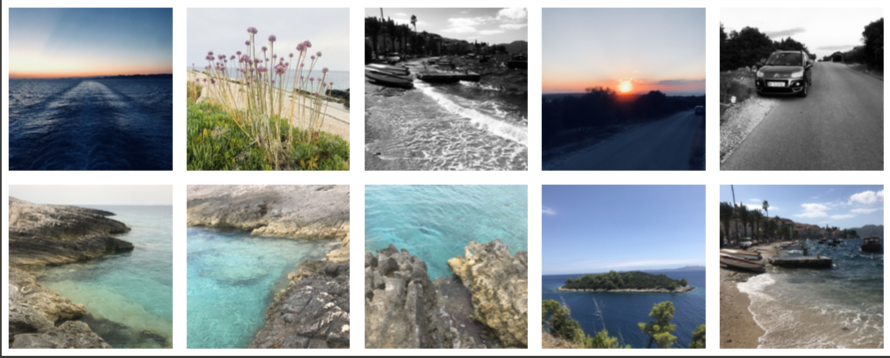
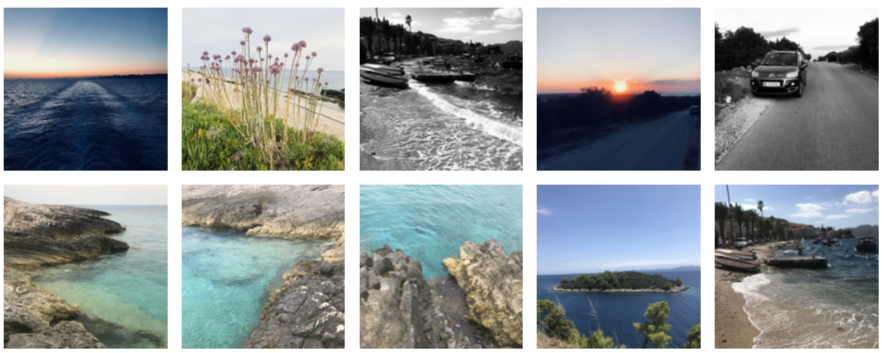
Update README.md

Changed region(s): [[0.0, 0.0, 1.0, 1.0], [0.7932, 0.0623, 0.8542, 0.1246]]

diff --git a/pkg/api/process_test.go b/pkg/api/process_test.go
@@ -188,6 +188,73 @@ func TestReadSeekerAndWriter(t *testing.T) {
 
 }
 
+func TestTrimUsingReadSeekerCloser(t *testing.T) {
+
+	config := pdf.NewDefaultConfiguration()
+	fileIn := filepath.Join(inDir, "pike-stanford.pdf")
+	fileOut := filepath.Join(outDir, "test.pdf")
+	pageSelection := []string{"-2"}
+
+	f, err := os.Open(fileIn)
+	if err != nil {
+		t.Fatalf("TestTrimUsingReadSeekerCloser Open:  %v\n", err)
+	}
+
+	defer func() {
+		f.Close()
+	}()
+
+	ctx, err := ReadContext(f, "", 0, config)
+	if err != nil {
+		t.Fatalf("TestTrimUsingReadSeekerCloser Read:  %v\n", err)
+	}
+
+	err = ValidateContext(ctx)
+	if err != nil {
+		t.Fatalf("TestTrimUsingReadSeekerCloser Validate:  %v\n", err)
+	}
+
+	err = OptimizeContext(ctx)
+	if err != nil {
+		t.Fatalf("TestTrimUsingReadSeekerCloser Optimize:  %v\n", err)
+	}
+
+	w, err := os.Create(fileOut)
+	if err != nil {
+		t.Fatalf("TestTrimUsingReadSeekerCloser Create:  %v\n", err)
+
+	}
+
+	defer func() {
+
+		// The underlying bufio.Writer has already been flushed.
+
+		// Processing error takes precedence.
+		if err != nil {
+			w.Close()
+			return
+		}
+
+		// Do not miss out on closing errors.
+		err = w.Close()
+
+	}()
+
+	ctx.Write.Command = "Trim"
+
+	pages, err := pagesForPageSelection(ctx.PageCount, pageSelection)
+	if err != nil {
+		t.Fatalf("TestTrimUsingReadSeekerCloser pageSelection:  %v\n", err)
+	}
+	ctx.Write.SelectedPages = pages
+
+	err = WriteContext(ctx, w)
+	if err != nil {
+		t.Fatalf("TestTrimUsingReadSeekerCloser Write:  %v\n", err)
+	}
+
+}
+
 func TestMergeUsingReadSeekerCloser(t *testing.T) {
 
 	rr := []pdf.ReadSeekerCloser{}

diff --git a/pkg/pdfcpu/doc.go b/pkg/pdfcpu/doc.go
@@ -14,8 +14,8 @@ The available commands are:
 	stamp		add text or image stamp to selected pages
 	watermark	add text or image watermark for selected pages
 	import		import/convert images
-	nup         rearrange pages/images into grid page layout for reduced number of pages
-    grid        rearrange pages/images into grid page layout for enhanced browsing experience
+	nup			rearrange pages/images for reduced number of pages
+	grid		rearrange pages/images for enhanced browsing experience
 	rotate		rotate pages
 	attach		list, add, remove, extract embedded file attachments
 	perm		list, add user access permissions

diff --git a/README.md b/README.md
@@ -8,16 +8,62 @@
 
 ![logo](resources/pdfchip3.png)
 
-Package `pdfcpu` is a simple PDF processing library written in [Go](http://golang.org) supporting encryption.
-It provides both an API and a CLI. Supported are all versions up to PDF 1.7 (ISO-32000). The current command set includes *validate*, *optimize*, *split*, *merge*, *extract*, *trim*, *stamp*, *watermark*, *import*, *nup*, *grid*, *rotate*, *attach*, *perm*, *encrypt*, *decrypt*, *changeupw*, *changeopw* and the list keeps growing.
-
-Documentation is live at [pdfcpu.io](https://pdfcpu.io). If you go there you will also find examples for every command.
+pdfcpu is a simple PDF processing library written in [Go](http://golang.org) supporting encryption.
+It provides both an API and a CLI. Supported are all versions up to PDF 1.7 (ISO-32000).
 
 ## Motivation
 
-Document interchange is essential in the world we live in. PDF is everywhere and it is not going away anytime soon.<br>
-This is an effort to build a PDF processing library from the ground up written in Go with strong support for batch processing via a rich command line. Over time `pdfcpu` aims to support the standard range of PDF processing features and also any interesting use cases that may present themselves along the way.
+This is an effort to build a comprehensive PDF processing library from the ground up written in Go. Over time pdfcpu aims to support the standard range of PDF processing features and also any interesting use cases that may present themselves along the way.
 
+<p align="center">
+  <kbd><img src="resources/gridpdf.png" height="150"></kbd>&nbsp;
+  <kbd><img src="resources/wmi1abs.png" height="150"></kbd>&nbsp;
+  <kbd><img src="resources/nup9pdf.png" height="150"></kbd>&nbsp;
+  <kbd><img src="resources/wmText2Sample.png" height="150"></kbd><br><br>
+  <kbd><img src="resources/stt31.png" height="150"></kbd>&nbsp;
+  <kbd><img src="resources/nup4pdf.png" height="150"></kbd>&nbsp;
+  <kbd><img src="resources/wmi4.png" height="150"></kbd>&nbsp;
+  <kbd><img src="resources/sti.png" height="150"></kbd><br><br>
+  <kbd><img src="resources/stp.png" height="150"></kbd>&nbsp;
+  <kbd><img src="resources/gridimg.png" height="150"></kbd>
+</p>
+
+## Focus
+
+The main focus lies on strong support for batch processing and scripting via a rich command line. At the same time pdfcpu wants to make it easy to integrate PDF processing into your Go based backend system by providing a robust command set.
+
+## Command Set
+
+* [validate](https://pdfcpu.io/core/validate)
+* [optimize](https://pdfcpu.io/core/optimize)
+* [split](https://pdfcpu.io/core/split)
+* [merge](https://pdfcpu.io/core/merge)
+* [extract](https://pdfcpu.io/extract/extract)
+* [trim](https://pdfcpu.io/core/trim)
+* [stamp](https://pdfcpu.io/core/stamp)
+* [watermark](https://pdfcpu.io/core/watermark)
+* [import](https://pdfcpu.io/generate/import)
+* [nup](https://pdfcpu.io/core/nup)
+* [grid](https://pdfcpu.io/core/grid)
+* [rotate](https://pdfcpu.io/core/rotate)
+* [attachments](https://pdfcpu.io/attach/attach)
+* [permissions](https://pdfcpu.io/encrypt/perm_add)
+* [encrypt](https://pdfcpu.io/encrypt/encryptPDF)
+* [decrypt](https://pdfcpu.io/encrypt/decryptPDF)
+* [change user password](https://pdfcpu.io/encrypt/change_upw)
+* [change owner password](https://pdfcpu.io/encrypt/change_opw)
+
+## Documentation
+
+The main entry point is [pdfcpu.io](https://pdfcpu.io).
+
+There you will find explanations of all the commands, their parameters and examples which use the CLI because this makes it easier to understand how the commands work.
+Even if you want to dive right into pdfcpu backend integration it is highly recommended to [read the docs](https://pdfcpu.io) first.
+
+### GoDoc
+
+* [pdfcpu package](https://godoc.org/github.com/hhrutter/pdfcpu)
+* [pdfcpu api](https://godoc.org/github.com/hhrutter/pdfcpu/pkg/api)
 
 ## Status
 
@@ -43,7 +89,7 @@ Required build version: go1.9 and up
 * Feature requests - always welcome!
 * Bug fixes - always welcome!
 * PRs - also welcome, although I can't promise a merge-in right now.
-* `pdfcpu` is stable but still _alpha_ and occasionally undergoing heavy changes.
+* pdfcpu is stable but still alpha and occasionally undergoing heavy changes.
 
 ### How
 
@@ -66,7 +112,7 @@ Please note that this project is released with a Contributor [Code of Conduct](C
 
 ## Disclaimer
 
-Usage of `pdfcpu` assumes you know about and respect all copyrights of any PDF content you may be processing. This applies to the PDF files as such, their content and in particular all embedded resources like font files or images. Credit goes to [Renee French](https://instagram.com/reneefrench) for creating our beloved Gopher.
+Usage of pdfcpu assumes you know about and respect all copyrights of any PDF content you may be processing. This applies to the PDF files as such, their content and in particular all embedded resources like font files or images. Credit goes to [Renee French](https://instagram.com/reneefrench) for creating our beloved Gopher.
 
 ## License
 
